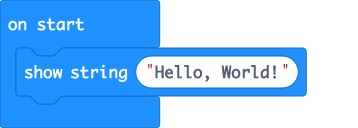
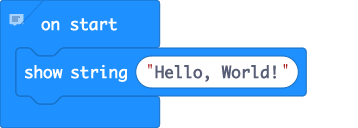
added a comment

Changed region(s): [[0.0, 0.0938, 0.338, 0.25]]

diff --git a/main.ts b/main.ts
@@ -1,1 +1,5 @@
+// Create by: Mr. Coxall
+// Created on: Sept 2020
+// 
+// This program says, "Hello, World!".
 basic.showString("Hello, World!")
